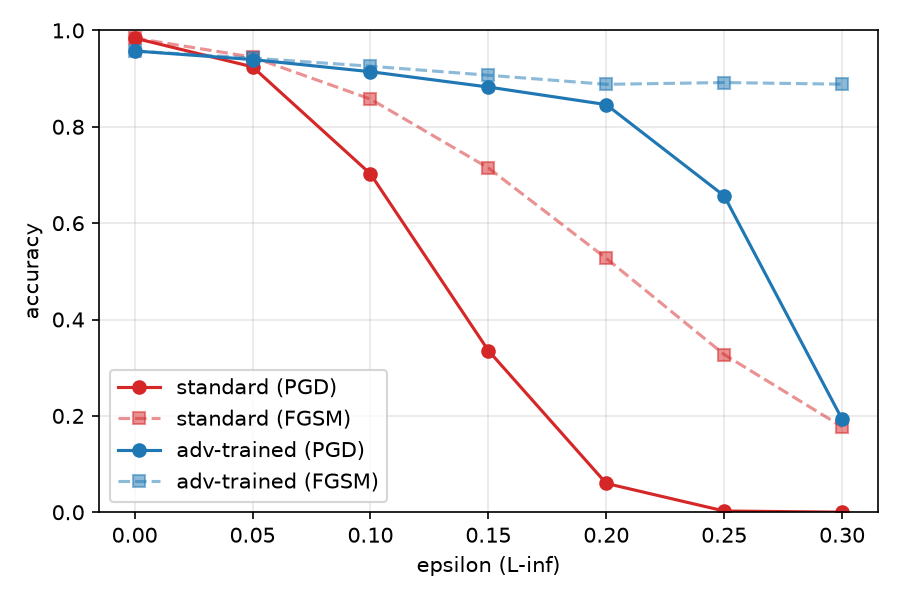
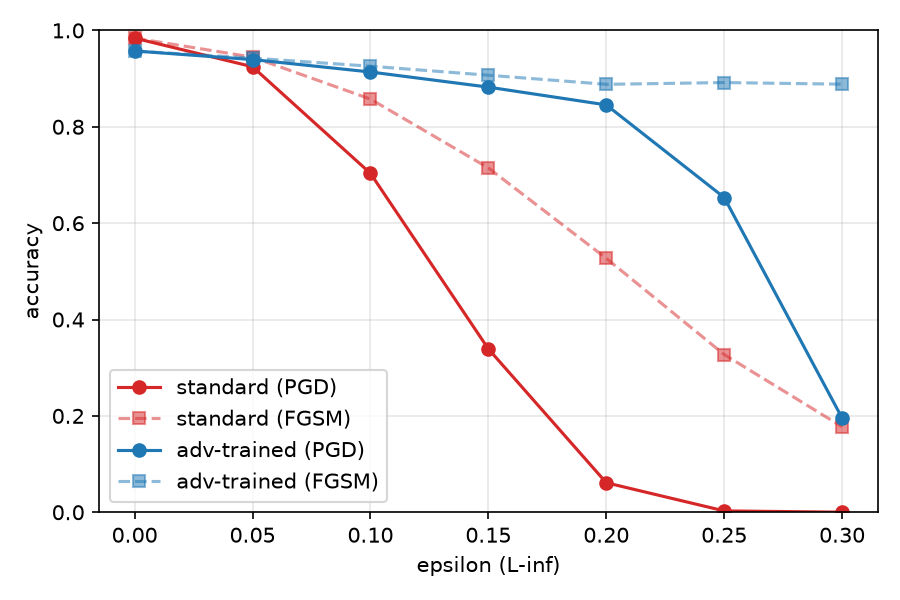
Update PGD results from a clean-clone rerun

diff --git a/report.md b/report.md
@@ -33,12 +33,12 @@
 | ε | standard / FGSM | standard / PGD | adv-trained / FGSM | adv-trained / PGD |
 |---|---|---|---|---|
 | 0 | 98.4% | 98.4% | 95.7% | 95.7% |
-| 0.05 | 94.5% | 92.4% | 94.3% | 93.9% |
-| 0.1 | 85.8% | 70.5% | 92.6% | 91.4% |
-| 0.15 | 71.5% | 33.9% | 90.7% | 88.3% |
-| 0.2 | 52.7% | 6.0% | 88.8% | 84.7% |
-| 0.25 | 32.7% | 0.1% | 89.2% | 65.5% |
-| 0.3 | 17.7% | 0.0% | 88.8% | 19.0% |
+| 0.05 | 94.5% | 92.5% | 94.3% | 94.0% |
+| 0.1 | 85.8% | 70.3% | 92.6% | 91.4% |
+| 0.15 | 71.5% | 33.9% | 90.7% | 88.2% |
+| 0.2 | 52.7% | 6.1% | 88.8% | 84.5% |
+| 0.25 | 32.7% | 0.3% | 89.2% | 65.3% |
+| 0.3 | 17.7% | 0.0% | 88.8% | 19.5% |
 
 ![robust accuracy vs epsilon](results/robust_accuracy.png)
 
@@ -46,16 +46,16 @@
 
 ## 5. 해석
 
-1. **공격은 작은 변화로도 accuracy를 크게 낮춘다.** standard 모델은 ε=0.1에서 PGD accuracy 70.5%, ε=0.2에서 6.0%로 떨어졌다. 같은 ε에서 PGD가 FGSM보다 항상 더 낮은 accuracy를 만들었다.
-2. **Adversarial training은 training ε 근처에서 효과가 크다.** ε=0.2에서 PGD accuracy가 6.0% → 84.7%로 올랐다.
+1. **공격은 작은 변화로도 accuracy를 크게 낮춘다.** standard 모델은 ε=0.1에서 PGD accuracy 70.3%, ε=0.2에서 6.1%로 떨어졌다. 같은 ε에서 PGD가 FGSM보다 항상 더 낮은 accuracy를 만들었다.
+2. **Adversarial training은 training ε 근처에서 효과가 크다.** ε=0.2에서 PGD accuracy가 6.1% → 84.5%로 올랐다.
 3. **accuracy와 robustness 사이에 trade-off가 있다.** clean accuracy가 98.4% → 95.7%로 낮아졌고, batch마다 PGD 10 step의 forward/backward가 추가되어 연산량이 일반 학습의 약 11배이며, CPU에서 epoch당 52~102초가 걸렸다.
-4. **일반화에는 한계가 있다.** training ε(0.2)를 넘는 ε=0.25, 0.3에서 PGD accuracy가 65.5%, 19.0%로 급격히 떨어졌다.
-5. **FGSM 수치를 그대로 믿으면 안 되는 경우가 있다.** adv-trained 모델은 ε=0.2~0.3에서 FGSM accuracy가 약 89%로 거의 변하지 않는데 PGD는 19.0%까지 내려간다. 단일 step 공격이 이 모델에서는 효과적이지 않고, FGSM만으로 평가했다면 robustness를 크게 과대평가했을 것이다.
+4. **일반화에는 한계가 있다.** training ε(0.2)를 넘는 ε=0.25, 0.3에서 PGD accuracy가 65.3%, 19.5%로 급격히 떨어졌다.
+5. **FGSM 수치를 그대로 믿으면 안 되는 경우가 있다.** adv-trained 모델은 ε=0.2~0.3에서 FGSM accuracy가 약 89%로 거의 변하지 않는데 PGD는 19.5%까지 내려간다. 단일 step 공격이 이 모델에서는 효과적이지 않고, FGSM만으로 평가했다면 robustness를 크게 과대평가했을 것이다.
 
 ## 6. 한계
 
 - **각 모델을 한 번만 학습했다.** 학습마다 결과가 달라지는데 그 변동 폭을 측정하지 못했다. 표의 수치는 한 번의 학습 결과로만 읽어야 한다.
-- PGD는 random start 때문에 같은 가중치로 다시 평가해도 0.3%p 안팎(최대 0.4%p 정도)으로 변한다. FGSM은 항상 같다.
+- PGD는 random start 때문에 같은 가중치로 다시 평가해도 0.3%p 안팎(최대 0.5%p 정도)으로 변한다. FGSM은 항상 같다.
 - 평가 공격이 PGD-40 하나로, 수치는 이 공격에 대한 accuracy이며 어떤 공격을 써도 맞히는 비율(진짜 robust accuracy)의 상한이다.
 - L∞ norm 제약, 작은 CNN, MNIST로 한정된 결과이며 다른 설정으로 일반화할 수 없다.
 

diff --git a/README.md b/README.md
@@ -11,16 +11,16 @@ test set: 10,000장 / 평가용 PGD: 40 step(random start, α = 2.5·ε/steps) /
 | ε | standard / FGSM | standard / PGD | adv-trained / FGSM | adv-trained / PGD |
 |---|---|-------------|---|-----------------|
 | 0 (clean) | 98.4% | 98.4% | 95.7% | 95.7% |
-| 0.05 | 94.5% | 92.4% | 94.3% | 93.9% |
-| 0.1 | 85.8% | 70.5% | 92.6% | 91.4% |
-| 0.15 | 71.5% | 33.9% | 90.7% | 88.3% |
-| 0.2 | 52.7% | 6.0% | 88.8% | 84.7% |
-| 0.25 | 32.7% | 0.1% | 89.2% | 65.5% |
-| 0.3 | 17.7% | 0.0% | 88.8% | 19.0% |
+| 0.05 | 94.5% | 92.5% | 94.3% | 94.0% |
+| 0.1 | 85.8% | 70.3% | 92.6% | 91.4% |
+| 0.15 | 71.5% | 33.9% | 90.7% | 88.2% |
+| 0.2 | 52.7% | 6.1% | 88.8% | 84.5% |
+| 0.25 | 32.7% | 0.3% | 89.2% | 65.3% |
+| 0.3 | 17.7% | 0.0% | 88.8% | 19.5% |
 
-- training ε(0.2)에서 PGD accuracy가 **6.0% → 84.7%** 로 올랐으나, clean accuracy는 **98.4% → 95.7%** 로 낮아졌다.
-- training ε를 넘는 ε=0.3에서 PGD accuracy가 19.0%로 다시 크게 떨어졌다.
-- adv-trained 모델의 FGSM accuracy는 ε=0.2~0.3에서 약 89%로 거의 변하지 않았으나, PGD는 19.0%까지 내려갔다. **이 모델에서는 FGSM 수치를 방어 성능 근거로 쓸 수 없고**, PGD 기준으로만 해석해야 한다 (자세한 내용은 [report.md](report.md)).
+- training ε(0.2)에서 PGD accuracy가 **6.1% → 84.5%** 로 올랐으나, clean accuracy는 **98.4% → 95.7%** 로 낮아졌다.
+- training ε를 넘는 ε=0.3에서 PGD accuracy가 19.5%로 다시 크게 떨어졌다.
+- adv-trained 모델의 FGSM accuracy는 ε=0.2~0.3에서 약 89%로 거의 변하지 않았으나, PGD는 19.5%까지 내려갔다. **이 모델에서는 FGSM 수치를 방어 성능 근거로 쓸 수 없고**, PGD 기준으로만 해석해야 한다 (자세한 내용은 [report.md](report.md)).
 - 위 표는 한 번 학습한 가중치 기준이고 같은 설정으로 다시 학습하면 수치가 달라진다.
 
 ## 구성
@@ -60,7 +60,7 @@ python visualize.py    # results/fgsm_examples.png 생성
 ## 한계
 
 - **각 모델을 1회만 학습했다.** 학습마다 결과가 달라지는 변동 폭을 측정하지 못했다.
-- PGD는 random start 때문에 같은 가중치로 다시 평가해도 0.3%p 안팎(최대 0.4%p 정도)으로 흔들린다. FGSM은 항상 같다.
+- PGD는 random start 때문에 같은 가중치로 다시 평가해도 0.3%p 안팎(최대 0.5%p 정도)으로 흔들린다. FGSM은 항상 같다.
 - 평가 공격이 **PGD-40 하나뿐**이라, 표의 수치는 "이 공격에 대한 accuracy"이고, 어떤 공격을 써도 맞히는 비율(진짜 robust accuracy)의 **상한**이다.
 - L∞ norm 제약만 다뤘다. training ε를 넘는 공격(ε=0.3)에는 accuracy가 크게 떨어진다.
 - 모델이 작고(conv 6/16 channel) 데이터가 MNIST이므로 결과를 더 큰 모델이나 다른 데이터셋으로 일반화할 수 없다.
